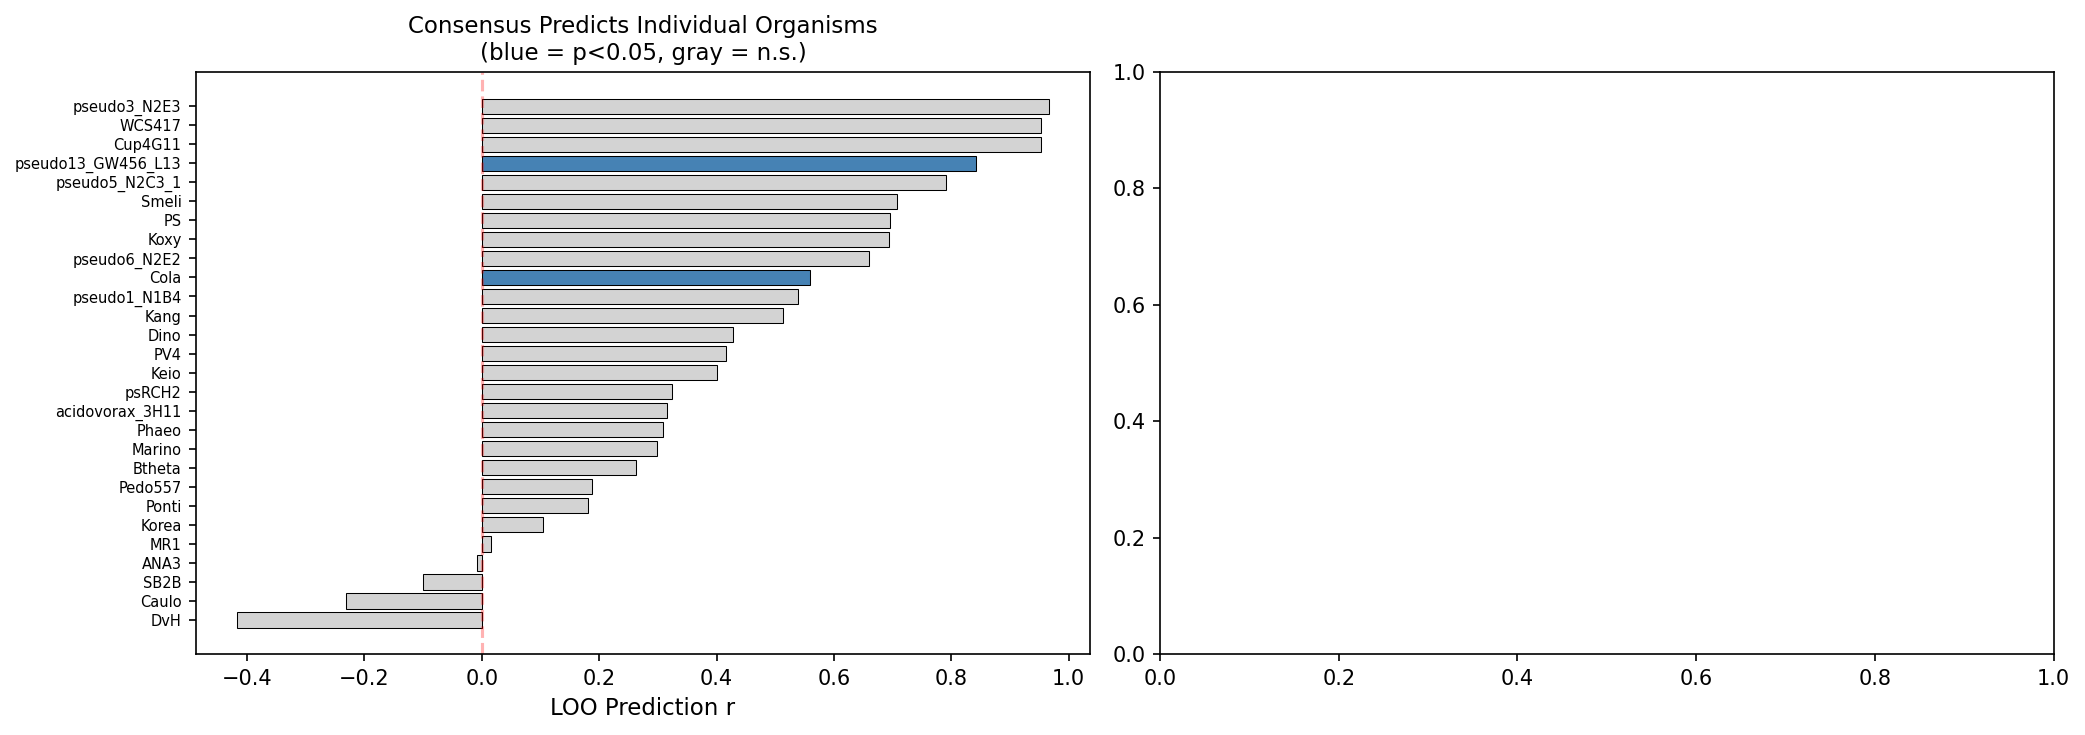
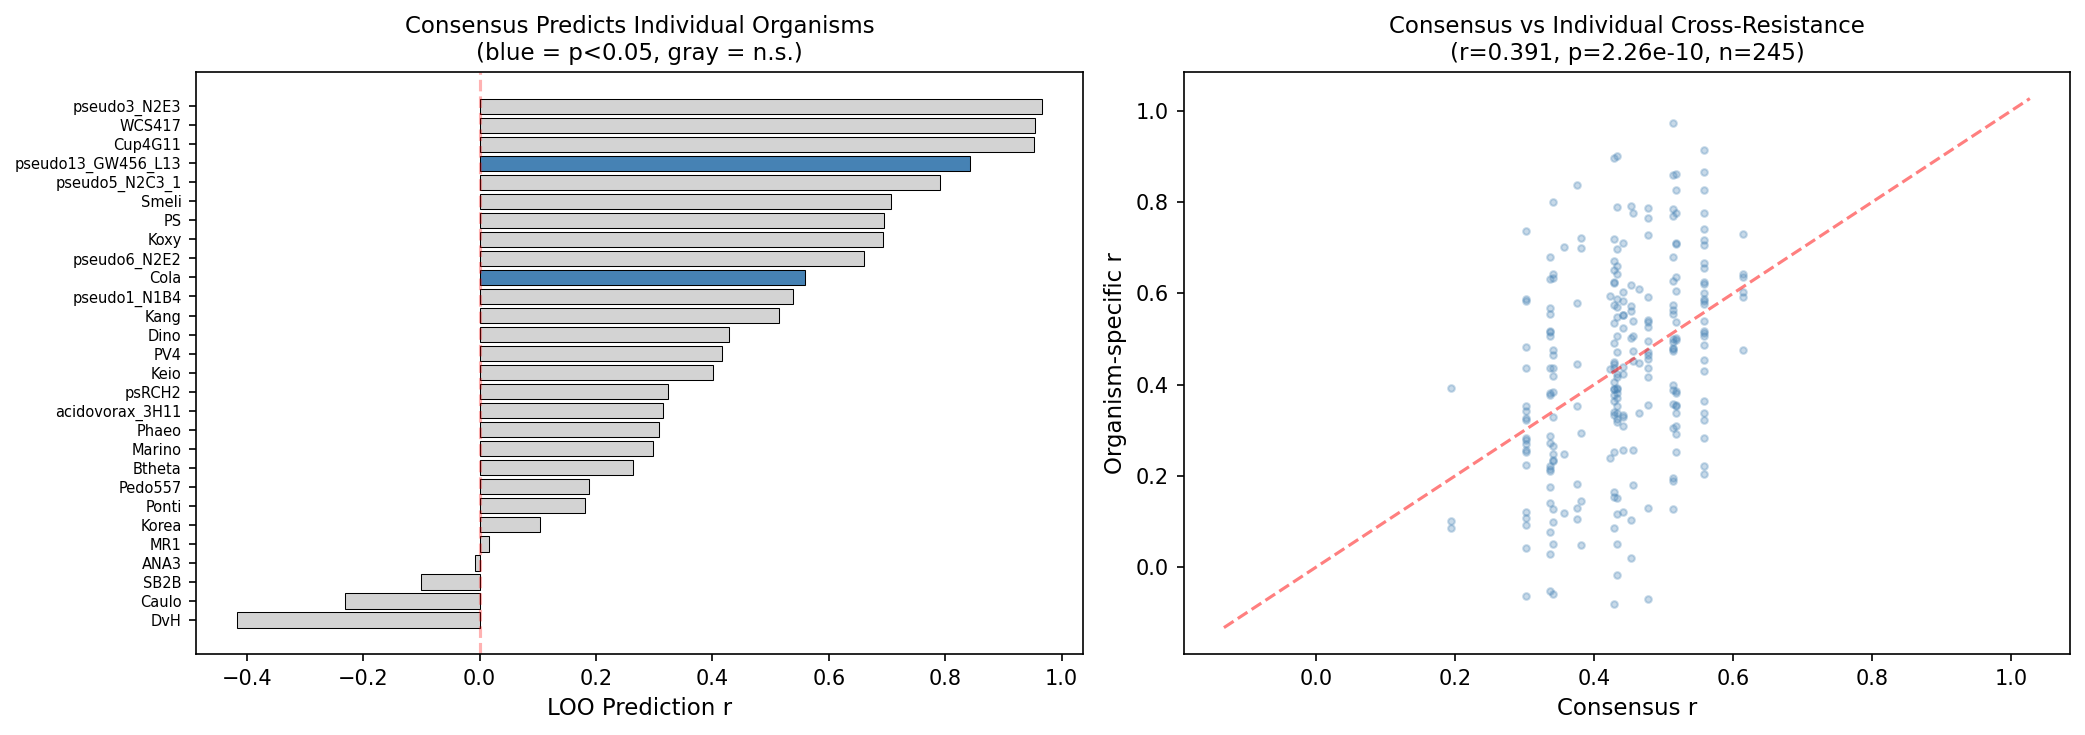
fix: address all 5 codex review issues
1. Critical: Exclude unscored organisms (azobra, BFirm) from H3 validation
2. Critical: Collapse Pseudomonas strains to species level for BacDive independence
3. Important: Harmonize general_stress definition (non-metal sick rate >= 50%)
4. Important: Fix NB03 scatter plot — look up metals directly in consensus matrix
5. Nice-to-have: Reconcile counts (452 exps, 14 metals, 28 analyzed organisms)

diff --git a/projects/metal_cross_resistance/REVIEW_1.md b/projects/metal_cross_resistance/REVIEW_1.md
@@ -1,0 +1,40 @@
+---
+reviewer: BERIL Automated Review (Codex, gpt-5.4)
+date: 2026-04-27
+project: metal_cross_resistance
+---
+
+# Review: Gene-Resolution Metal Cross-Resistance Across Diverse Bacteria
+
+## Summary
+This is a strong, well-documented analysis project with a clear research question, a sensible notebook progression, saved notebook outputs, substantial generated data, and figures that cover the main result areas. H1 and H2 are generally well supported by the materials provided. The main weakness is the H3 validation workflow: the BacDive comparison mixes in organisms that were never scored for cross-resistance, reuses the same species-level BacDive evidence across multiple FB strains, and relies on broad string matching, so the reported null result should be treated as provisional rather than a clean test.
+
+## Methodology
+The project states a testable question in [README.md](/home/psdehal/BERIL-research-observatory/projects/metal_cross_resistance/README.md:3) and expands it into explicit hypotheses in [RESEARCH_PLAN.md](/home/psdehal/BERIL-research-observatory/projects/metal_cross_resistance/RESEARCH_PLAN.md:3). The overall workflow is logical: NB01 extracts per-organism metal fitness matrices, NB02-NB03 test conservation, NB04 classifies gene tiers, and NB05 attempts validation. Reproducibility is better than average for this repository: the README has a real `## Reproduction` section with Spark/local separation, `requirements.txt` is present, all five notebooks have saved outputs, and the project ships 73 data files plus 11 figures. The main reproducibility gap is not missing artifacts but method drift: the implemented H2 and H3 procedures do not fully match the plan/write-up, which makes it harder for a reader to know which definition should be trusted.
+
+## Code Quality
+Notebook organization is good overall, and the implementation reflects several known BERDL pitfalls correctly, especially casting Fitness Browser string fields to numeric in NB01 and NB04. I found four concrete issues.
+
+First, the H3 validation cohort is inconsistent. NB05 cell 6 iterates over every organism in `extraction_summary.csv`, but NB04 only classifies organisms with `n_metals >= 3`, so `azobra` and `BFirm` enter `data/bacdive_metal_environment.csv` with zero-valued scores even though they were never analyzed for cross-resistance tiers. This directly affects the headline `n = 26` null result reported in [REPORT.md](/home/psdehal/BERIL-research-observatory/projects/metal_cross_resistance/REPORT.md:82). Excluding those two rows changes the shared-fraction correlation from rho = -0.02 to rho = -0.17, so the conclusion remains null but the reported statistic is not based on a consistent analysis set. References: `05_pangenome_prediction.ipynb` cells 6, 9, 10; `data/bacdive_metal_environment.csv`.
+
+Second, the BacDive validation is not independent at the FB-strain level. In `05_pangenome_prediction.ipynb` cell 9, matching is done at genus/species string level, then several distinct FB strains inherit the same BacDive species pool. In the saved output, the five `Pseudomonas fluorescens` strains (`pseudo1_N1B4`, `pseudo3_N2E3`, `pseudo5_N2C3_1`, `pseudo6_N2E2`, `pseudo13_GW456_L13`) all receive identical `n_bacdive_strains`, `n_metal_env`, and `pct_metal_env` values. That duplicates the same environmental evidence across multiple rows and weakens the statistical interpretation of the H3 test. References: `05_pangenome_prediction.ipynb` cells 8-10; `data/bacdive_metal_environment.csv`.
+
+Third, the implemented definition of `general_stress` does not match the research plan. The plan defines it as important in at least 50% of all conditions, metal plus non-metal, but `04_shared_vs_specific_genes.ipynb` cell 4 classifies it solely by `sick_rate_nonmetal >= 0.50`. That may be a reasonable operational definition, but it is a different one, and it affects the H2 tier counts and enrichment claims in [REPORT.md](/home/psdehal/BERIL-research-observatory/projects/metal_cross_resistance/REPORT.md:54). References: [RESEARCH_PLAN.md](/home/psdehal/BERIL-research-observatory/projects/metal_cross_resistance/RESEARCH_PLAN.md:149), `04_shared_vs_specific_genes.ipynb` cell 4.
+
+Fourth, NB03 contains a plotting bug in the `consensus_vs_individual` figure logic. In cell 8, the condition `if pair_key in consensus.index` can never be true because `consensus.index` contains metal names, not pair names, so the pooled scatter data are not assembled as intended. This does not invalidate the LOO table saved in `data/loo_consensus_prediction.csv`, but it does weaken one of the supporting visualizations listed in [REPORT.md](/home/psdehal/BERIL-research-observatory/projects/metal_cross_resistance/REPORT.md:198). Reference: `03_cross_resistance_conservation.ipynb` cell 8.
+
+## Findings Assessment
+The core H1 conclusion is supported by the saved outputs: the cross-resistance matrices, pairwise summaries, Mantel results, and leave-one-out table all point in the same qualitative direction. H2 is also reasonably supported, but the reader should be told more explicitly that the implemented tier definition differs from the plan. H3 is the weakest part: the report appropriately calls it inconclusive, but the exact null statistic should not be overinterpreted because the validation table mixes unmatched cohort definitions and duplicated species-level metadata. The visual coverage is strong overall, with 11 figures across the major stages, but documentation consistency needs work: [README.md](/home/psdehal/BERIL-research-observatory/projects/metal_cross_resistance/README.md:10) and [README.md](/home/psdehal/BERIL-research-observatory/projects/metal_cross_resistance/README.md:17) still describe 30 organisms, 422 experiments, and 13 metals, while [REPORT.md](/home/psdehal/BERIL-research-observatory/projects/metal_cross_resistance/REPORT.md:92) reports 452 experiments and 14 metals.
+
+## Suggestions
+1. Critical: Rebuild the H3 validation table using only organisms that actually received cross-resistance/tier scores, and update the reported `n` and correlation statistics accordingly.
+2. Critical: Avoid treating multiple FB strains from the same species as independent BacDive validations when they share the same species-level BacDive pool; collapse to species level or use strain-resolved matching if available.
+3. Important: Harmonize the `general_stress` definition across `RESEARCH_PLAN.md`, NB04, and `REPORT.md`, or explicitly justify the implemented non-metal-only rule and restate H2 using that definition.
+4. Important: Fix the NB03 cell-8 scatterplot logic so `figures/consensus_vs_individual.png` actually visualizes the pooled consensus-versus-observed comparison.
+5. Nice-to-have: Reconcile the project summary numbers across README and REPORT so experiment counts, metal counts, and analyzed-organism counts are consistent everywhere.
+
+## Review Metadata
+- **Reviewer**: BERIL Automated Review (Codex, gpt-5.4)
+- **Date**: 2026-04-27
+- **Scope**: README.md, 5 notebooks, 73 data files, 11 figures
+- **Note**: This review was generated by an AI system. It should be treated as advisory input, not a definitive assessment.

diff --git a/projects/metal_cross_resistance/RESEARCH_PLAN.md b/projects/metal_cross_resistance/RESEARCH_PLAN.md
@@ -128,9 +128,9 @@ GROUP BY gf.locusId, e.metal_type
 - **Goal**: For each gene, classify as general-stress / metal-shared / metal-specific based on fitness profiles. Test whether shared genes are more core than specific genes.
 - **Key analysis**:
   - Three-tier classification per gene:
-    - **General stress**: Important (fit < -1) in ≥50% of all conditions (metal + non-metal)
-    - **Metal-shared**: Important in ≥2 metals, <50% of non-metal conditions
-    - **Metal-specific**: Important in exactly 1 metal, <50% of non-metal conditions
+    - **General stress**: Important (fit < -1) in ≥1 metal AND sick rate ≥ 50% across non-metal experiments (pleiotropic)
+    - **Metal-shared**: Important in ≥2 metals, sick rate < 50% in non-metal experiments
+    - **Metal-specific**: Important in exactly 1 metal, sick rate < 50% in non-metal experiments
   - Map genes to pangenome core/accessory via ortholog groups (from essential_genome)
   - Test H2: core enrichment gradient — general > metal-shared > metal-specific
   - Identify the genes driving cross-resistance (metal-shared) — functional enrichment via COG/KEGG

diff --git a/projects/metal_cross_resistance/README.md b/projects/metal_cross_resistance/README.md
@@ -7,14 +7,14 @@ Is the genetic architecture of metal cross-resistance conserved across phylogene
 Complete — see [Report](REPORT.md) for findings. H1 (conservation) strongly supported, H2 (core gradient) supported, H3 (BacDive) inconclusive at FB scale.
 
 ## Overview
-The literature treats metal cross-resistance as a binary property of strains (e.g., "Co-Ni cross-resistant"), inferred from MIC assays on a handful of model organisms. We have genome-wide RB-TnSeq fitness data across 30 organisms and up to 13 metals — enabling the first gene-resolution cross-resistance analysis. For each organism, we correlate gene fitness profiles between all metal pairs to build a metal × metal cross-resistance matrix, then test whether these matrices are conserved across organisms (universal chemistry) or rewired per species (organism-specific). We decompose genes into a three-tier architecture (general stress > metal-shared > metal-specific) and predict that shared genes are more core in the pangenome. Finally, we use conserved cross-resistance signatures to predict multi-metal tolerance across 27K species and validate against BacDive isolation environments.
+The literature treats metal cross-resistance as a binary property of strains (e.g., "Co-Ni cross-resistant"), inferred from MIC assays on a handful of model organisms. We have genome-wide RB-TnSeq fitness data across 28 organisms and up to 14 metals — enabling the first gene-resolution cross-resistance analysis. For each organism, we correlate gene fitness profiles between all metal pairs to build a metal × metal cross-resistance matrix, then test whether these matrices are conserved across organisms (universal chemistry) or rewired per species (organism-specific). We decompose genes into a three-tier architecture (general stress > metal-shared > metal-specific) and predict that shared genes are more core in the pangenome. Finally, we use conserved cross-resistance signatures to predict multi-metal tolerance across 27K species and validate against BacDive isolation environments.
 
 ## Quick Links
 - [Research Plan](RESEARCH_PLAN.md) — hypotheses, approach, query strategy
 - [Report](REPORT.md) — findings, interpretation, supporting evidence
 
 ## Data Sources
-- **Fitness Browser**: 422 metal experiments, 37 organisms, 13 metals (Al, Cd, Co, Cr, Cu, Fe, Hg, Mn, Mo, Ni, Se, U, W, Zn)
+- **Fitness Browser** (`kescience_fitnessbrowser`): 452 metal experiments, 37 organisms, 14 metals (Al, Cd, Co, Cr, Cu, Fe, Hg, Mn, Mo, Ni, Se, U, W, Zn); 28 organisms with ≥3 metals analyzed
 - **Metal Fitness Atlas** (this observatory): metal-important gene lists, conserved metal families
 - **Metal Specificity** (this observatory): metal-specific vs pleiotropic gene classification
 - **Counter Ion Effects** (this observatory): DvH metal-NaCl correlation hierarchy